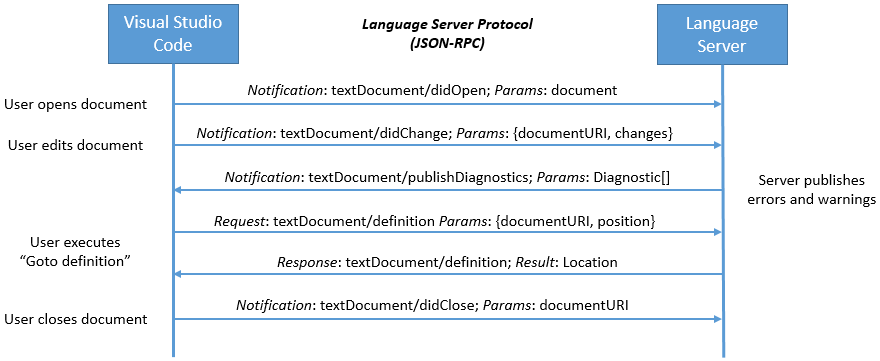
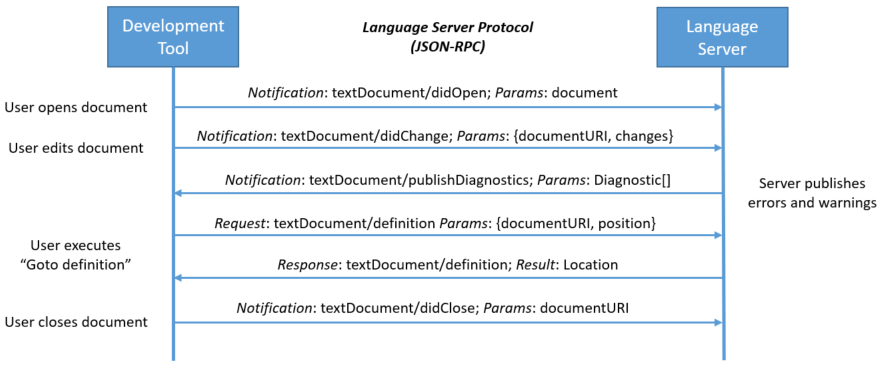
Incooperated first round of feedback

diff --git a/index.html b/index.html
@@ -15,12 +15,33 @@ layout: default
 <div class="container">
 
     <div class="row">
-        <div class="col-lg-12">
+        <div class="col-lg-6">
             <h2 class="header-light regular-pad">What is the Language Server Protocol?</h2>
             <blockquote>
-              <p>Implementing language support like auto complete, goto definition, or type hovering for a programming language for different development tools is a significant effort. Each development tool provides different APIs for language extenders. Moreover, an extension has to be implemented in the implementation language of the tool itself. This requires to implement the smartness for a language multiple times and this in different languages. It is not possible to share this language smartness across tools. The idea behind a <i>Language Server</i> is to provide the language smarts inside a server and using inter process communication and a protocl between the development tool and the this server to support a particular language. When each language server provides a different protocol then the tool integrator has to integrate support for each language differently. The idea behind the <i>Language Server Protocol</i> is to standardize this protocol and therefore to simplify the integration of different language servers in a development tool. This is a win for both the language provider and the development tool provider!
+              <p>Implementing language support like auto complete, goto definition, or type hovering for a programming language for different development tools is a significant effort. Each development tool provides different APIs for language extenders. Moreover, an extension has to be implemented in the implementation language of the tool itself. This requires to implement the smartness for a language multiple times. The idea behind a <i>Language Server</i> is to provide the language smarts inside a server and using inter process communication and a protocol to talk to this server. If each language server speaks a different protocol then the  integration of each server into each tool is custom. The idea behind the <i>Language Server Protocol</i> is to standardize this protocol and therefore to simplify the integration of different language servers in a development tool. This is a win for both the language provider and the development tool provider!
               </p>
             </blockquote>
+        </div>
+        <div class="col-lg-6">
+            <div class="row align-items-center">
+                <div class="col-lg-8">
+                    <img src="img/vscode-code-complete.png" class="img-fluid rounded"/>
+                </div>
+                <div class="col-lg-4">
+                    <p class="text-left"><i>CSS code complete in VS Code powered by the CSS LSP Server</i></p>
+                </div>
+            </div>
+            <div class="row align-items-center">
+                <p></p>
+            </div>
+            <div class="row align-items-center">
+                <div class="col-lg-4">
+                    <p class="text-left"><i>CSS code complete in Atom powered by the CSS LSP Server</i></p>
+                </div>
+                <div class="col-lg-8">
+                    <img src="img/atom-code-complete.png" class="img-fluid rounded"/>
+                </div>                
+            </div>
         </div>
     </div>
 

diff --git a/_includes/topnav.html b/_includes/topnav.html
@@ -14,7 +14,7 @@
                     <a class="nav-link" href='{{ "/howItWorks" | prepend: site.baseurl }}'>How it Works</a>
                 </li>
                 <li {% if page.sectionid=='implementors' %} class="nav-item active" {% else %} class="nav-item" {% endif %}>
-                    <a class="nav-link" href="{{ sorted.first.url | prepend: site.baseurl }}">Implementors</a>
+                    <a class="nav-link" href="{{ sorted.first.url | prepend: site.baseurl }}">Implementations</a>
                 </li>
                 <li {% if page.sectionid=='specification' %} class="nav-item active" {% else %} class="nav-item" {% endif %}>
                     <a class="nav-link" href='{{ "/specification" | prepend: site.baseurl }}'>Specification</a>

diff --git a/_layouts/implementors.html b/_layouts/implementors.html
@@ -7,7 +7,7 @@ layout: default
         <div class="col-md-2">
             <div class="card sticky-top" style="top: 4rem">
                 <div class="card-header">
-                    Implementors
+                    Implementations
                 </div>
                 <ul class="nav flex-column list-unstyled">
                     {% assign sorted = site.implementors | sort: 'index' %}

diff --git a/_includes/footer.html b/_includes/footer.html
@@ -2,7 +2,7 @@
     <div class="container">
         <hr>
         <p class="text-center">
-            {{ site.title }} {{ site.time | date: '%Y' }} | Powered by <a href="https://getbootstrap.com/">Bootstrap</a>
+            {{ site.title }} {{ site.time | date: '%Y' }} | Site Powered by <a href="https://getbootstrap.com/">Bootstrap</a>
         </p>
     </div>
 </footer>

diff --git a/css/main.scss b/css/main.scss
@@ -41,9 +41,9 @@ body {
 }
 
 .anchor {
-	display:block;
-	padding-top:100px;
-	margin-top:-100px;
+	display: block;
+	padding-top: 100px;
+	margin-top: -100px;
 }
 
 .highlight {

diff --git a/howItWorks.md b/howItWorks.md
@@ -6,7 +6,6 @@ sectionid: howItWorks
 
 A language server runs as a separate process and development tools communicate with the server using the language protocol over JSON-RPC. Below is an example for how a tool and a language server communicate during a routine editing session:
 
-** To Do ** Replace VS Code in the diagram with Development Tool to make it VS Code neutral
 ![language server protocol](./img/language-server-sequence.png)
 
 * **The user opens a file (referred to as a *document*) in the tool**: The tool notifies the language server that a document is open ('textDocument/didOpen'). From now on, the truth about the contents of the document is no longer on the file system but kept by the tool in memory. The contents now has to be synchronized between the tool and the language server.
@@ -17,7 +16,7 @@ A language server runs as a separate process and development tools communicate w
 
 * **The user closes the document (file)**: A 'textDocument/didClose' notification is sent from the tool informing the language server that the document is now no longer in memory. The current contents is now up to date on the file system.
 
-This example illustrates how the protocol communicates with the language server at the level of document references (URIs) and document positions. These data types are programming language neutral and apply to all programming languages. The data types are not from the domain model typically abstract syntax trees and compiler symbols (for example, resolved types, namespaces, ...) from a language implementation. The fact, that the data types are simple and apply to all all languages simplifies the protocol significantly. It is much simpler to standardize a text document URI or a cursor position compared with standardizing an abstract syntax tree and compiler symbols across different programming languages.
+This example illustrates how the protocol communicates with the language server at the level of document references (URIs) and document positions. These data types are programming language neutral and apply to all programming languages. The data types are not at the level of a programming language domain model which would usually provide abstract syntax trees and compiler symbols (for example, resolved types, namespaces, ...). The fact, that the data types are simple and programming language netrual simplifies the protocol significantly. It is much simpler to standardize a text document URI or a cursor position compared with standardizing an abstract syntax tree and compiler symbols across different programming languages.
 
 Now let's look at the 'textDocument/definition' request in more detail. Below are the payloads that go between the development tool and the language server for the "Go to Definition" request in a C++ document.
 
@@ -62,7 +61,7 @@ This is the response:
 }
 ```
 
-When a user is working with different languages, a development tools usually starts a language server for each programming language. The example below shows a session where the user works on Java and SASS files.
+When a user is working with different languages, a development tool usually starts a language server for each programming language. The example below shows a session where the user works on Java and SASS files.
 
 ![language server protocol](./img/language-server.png)
 

diff --git a/_implementors/servers.md b/_implementors/servers.md
@@ -8,7 +8,7 @@ index: 1
 
 The language servers are listed in chronological order of appearance.
 
-** Please ** make a Pull Request against ??? to add your implementation.
+*If you are missing a server please create a pull request in GitHub gainst this markdown [document](https://github.com/Microsoft/language-server-protocol/blob/gh-pages/_implementors/servers.md)*
 
 | Language | Maintainer | Repository |
 |------|--------|----------|

diff --git a/_implementors/tools.md b/_implementors/tools.md
@@ -6,7 +6,8 @@ author: Microsoft
 index: 2
 ---
 
-** Please ** make a Pull Request against ??? to add your implementation.
+*If you are missing a development tool please create a pull request in GitHub gainst this markdown [document](https://github.com/Microsoft/language-server-protocol/blob/gh-pages/_implementors/tools.md)*
+
 
 | Editor/IDE | Maintainer | Repository |
 |------|--------|----------|

diff --git a/_implementors/sdks.md b/_implementors/sdks.md
@@ -6,8 +6,7 @@ author: Microsoft
 index: 3
 ---
 
-** Please ** make a Pull Request against ??? to add your implementation.
-
+*If you are missing a SDK please create a pull request in GitHub gainst this markdown [document](https://github.com/Microsoft/language-server-protocol/blob/gh-pages/_implementors/sdks.md)*
 
 | Language | Maintainer | Repository |
 |------|--------|----------|
